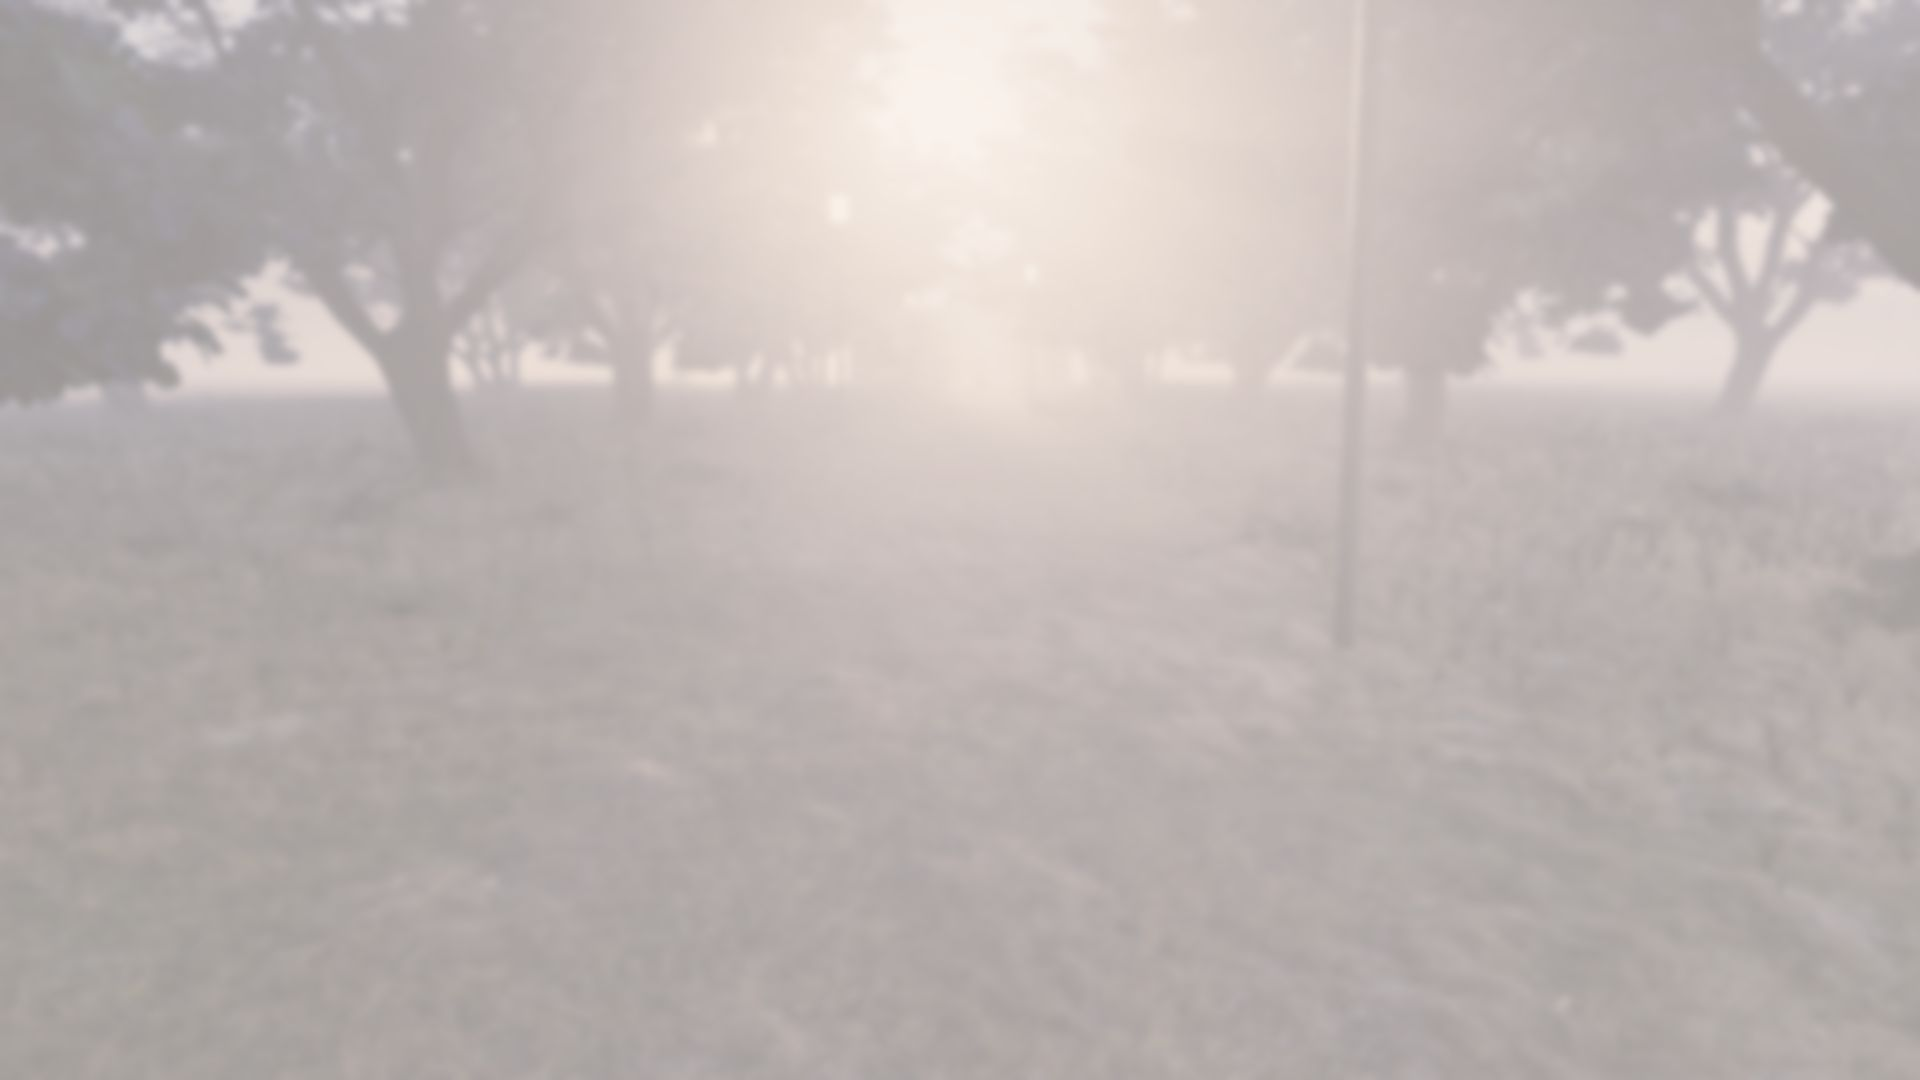
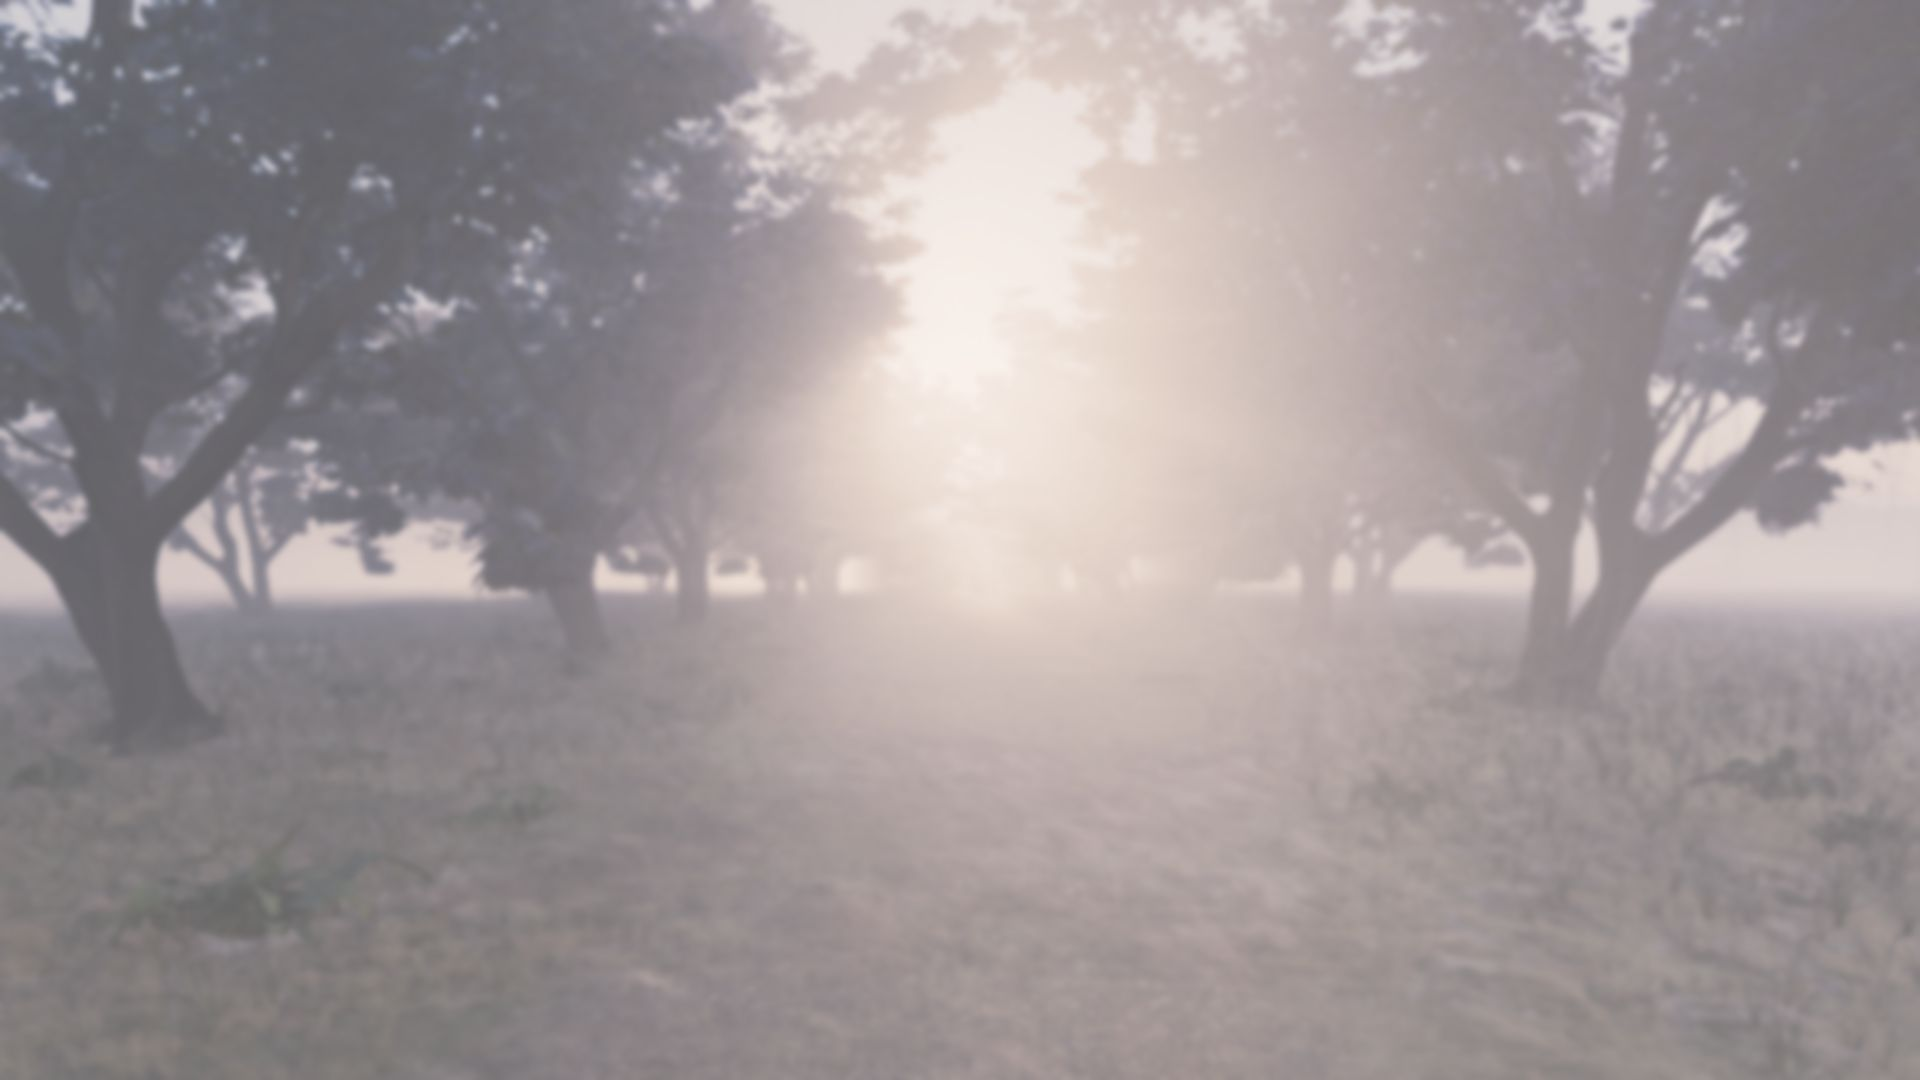
style: fundo do fechamento sem os postes, com mais copa e menos névoa

diff --git a/scripts/preparar-fechamento.py b/scripts/preparar-fechamento.py
@@ -13,15 +13,23 @@ RAIZ = Path(__file__).resolve().parent.parent
 sys.path.insert(0, str(RAIZ / "render"))
 from montar import gradear, recortar  # noqa: E402  (a mesma cor do passeio)
 
-QUADRO = RAIZ / "media-src" / "passeio-render" / "fundo" / "fundo-012.png"
+QUADRO = RAIZ / "media-src" / "passeio-render" / "fundo" / "fundo-000.png"  # o começo da alameda: copas e luz, sem a cachorra
 DESTINO = RAIZ / "src" / "assets" / "fechamento"
 NEVOA = np.array([0.98, 0.95, 0.92])  # creme do site: o quadro some numa névoa clara, sem brigar com o texto escuro
-FORCA_NEVOA = 0.55
+FORCA_NEVOA = 0.3  # clareia sem apagar: o quadro guarda uns 70% do contraste
+# os postes do caminho (x0, x1, y0, y1 no quadro de 1280): somem preenchidos com as colunas vizinhas
+POSTES = [(760, 797, 320, 628), (566, 589, 428, 572), (602, 617, 470, 552), (671, 690, 458, 552)]
 
 DESTINO.mkdir(parents=True, exist_ok=True)
-quadro = Image.open(QUADRO).convert("RGB")
+px = np.asarray(Image.open(QUADRO).convert("RGB"), dtype=np.float32).copy()
+for x0, x1, y0, y1 in POSTES:
+    t = np.linspace(0, 1, x1 - x0)[None, :, None]
+    px[y0:y1, x0:x1] = px[y0:y1, x0 - 1 : x0] * (1 - t) + px[y0:y1, x1 : x1 + 1] * t
+quadro = Image.fromarray(px.clip(0, 255).astype(np.uint8))
 for tela, tamanho in (("desktop", (1920, 1080)), ("celular", (900, 1600))):
-    im = recortar(quadro, tela).resize(tamanho, Image.LANCZOS).filter(ImageFilter.GaussianBlur(4))
+    # no desktop, a faixa sobe para mostrar mais copa (o recorte do passeio é centrado)
+    faixa = quadro.crop((0, 140, 1280, 860)) if tela == "desktop" else recortar(quadro, tela)
+    im = faixa.resize(tamanho, Image.LANCZOS).filter(ImageFilter.GaussianBlur(3))
     px = gradear(np.asarray(im, dtype=np.float32) / 255)
     px = px * (1 - FORCA_NEVOA) + NEVOA * FORCA_NEVOA
     Image.fromarray((px * 255 + 0.5).astype(np.uint8)).save(DESTINO / f"{tela}.jpg", quality=80)
